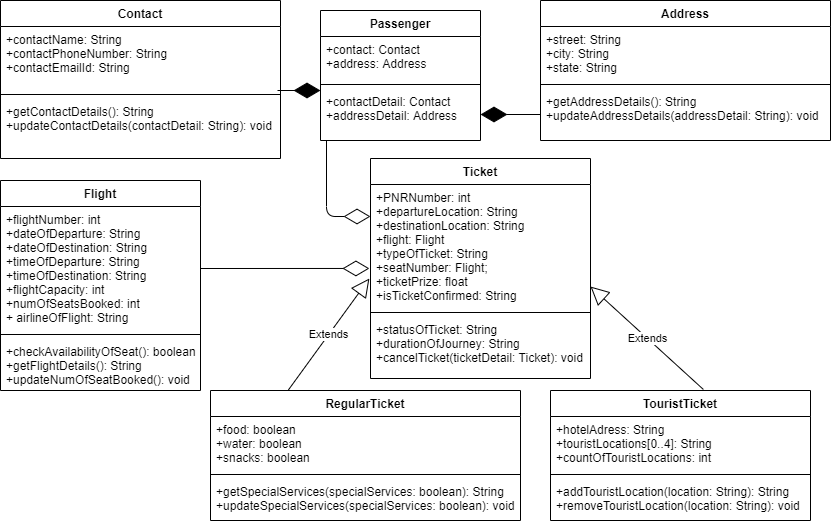
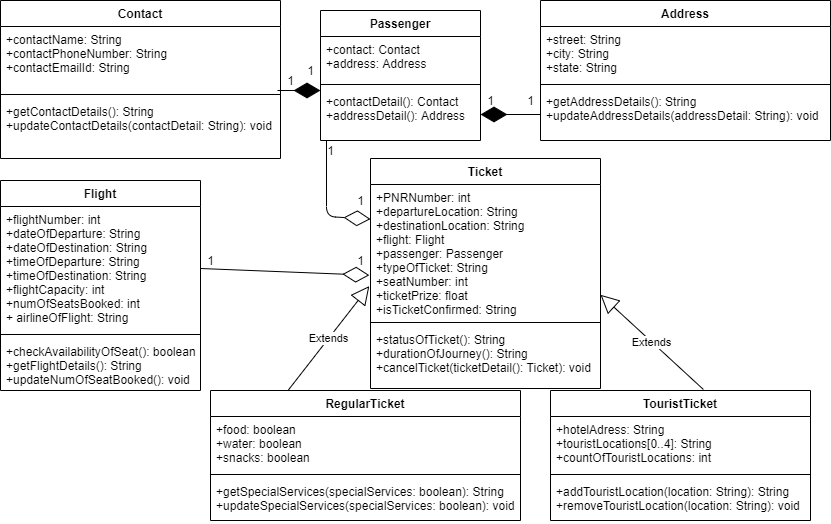
updated UML diagram

diff --git a/Flight reservation project/src/Flight/RegularTicket.java b/Flight reservation project/src/Flight/RegularTicket.java
@@ -7,10 +7,10 @@ public class RegularTicket extends Ticket {
     private boolean snacks;
 
 
-    public RegularTicket(int PNRNumber,String departureLocation, String destinationLocation, float prizeOfTicket,
+    public RegularTicket(String departureLocation, String destinationLocation, float prizeOfTicket,
                          boolean food, boolean water, boolean snacks,
                          Flight flight, Passenger  passenger){
-        super(PNRNumber,destinationLocation,departureLocation,prizeOfTicket,flight,passenger);
+        super(destinationLocation,departureLocation,prizeOfTicket,flight,passenger);
         this.water=water;
         this.food=food;
         this.snacks=snacks;
@@ -18,6 +18,35 @@ public class RegularTicket extends Ticket {
 
 
     }
+    public String bookTicket(){
+
+        if(this.seatNumber>this.flight.getCapacity()){
+            this.isTicketConfirmed=false;
+
+            return "Can't book Seat.";
+        }
+        else{
+            this.isTicketConfirmed=true;
+            this.flight.setNumOfSeatsBooked();
+            System.out.println(this.passenger.getContactDetails());
+            System.out.println(this.passenger.getAddressDetails());
+            System.out.println(this.flight.getFlightDetails());
+            System.out.println(this.ticketDetails());
+            return "Ticket Booked";
+        }
+    }
+
+    public String ticketDetails(){
+        return "Ticket type: Regular Ticket"+ ", Seat Number: "+this.seatNumber+ ", Status of Ticket:" +this.StatusOfTicket(this.isTicketConfirmed);
+    }
+
+    public String StatusOfTicket(){
+        if (this.isTicketConfirmed)
+            return "Confirmed";
+        else
+            return "Cancelled";
+    }
+
 
 
 

diff --git a/Flight reservation project/src/Flight/Ticket.java b/Flight reservation project/src/Flight/Ticket.java
@@ -1,3 +1,4 @@
+
 package Flight;
 
 public abstract class Ticket {
@@ -8,10 +9,11 @@ public abstract class Ticket {
     public boolean isTicketConfirmed;
     public Flight flight;
     public Passenger  passenger;
-    private  int seatNumber=0;
+    public  int seatNumber=0;
 
-    public Ticket(int PNRNumber, String destinationLocation, String departureLocation, float ticketPrize, Flight flight, Passenger passenger){
+    public Ticket( String destinationLocation, String departureLocation, float ticketPrize, Flight flight, Passenger passenger){
         this.PNRNumber=PNRNumber++;
+        this.seatNumber=++seatNumber
         this.departureLocation=departureLocation;
         this.destinationLocation=destinationLocation;
         this.ticketPrize=ticketPrize;
@@ -21,22 +23,8 @@ public abstract class Ticket {
     }
 
 
-    public String bookTicket(){
-        this.seatNumber=++this.seatNumber;
-        if(this.seatNumber>this.flight.getCapacity()){
-            isTicketConfirmed=false;
+    public  abstract bookTicket(){
 
-            return "Can't book Seat.";
-        }
-        else{
-            isTicketConfirmed=true;
-            this.flight.setNumOfSeatsBooked();
-            System.out.println(this.passenger.getContactDetails());
-            System.out.println(this.passenger.getAddressDetails());
-            System.out.println(this.flight.getFlightDetails());
-            System.out.println(this.ticketDetails());
-            return "Ticket Booked";
-        }
     }
 
     public String ticketDetails(){

diff --git a/Flight reservation project/src/Flight/TouristTicket.java b/Flight reservation project/src/Flight/TouristTicket.java
@@ -7,10 +7,10 @@ public class TouristTicket extends Ticket{
 
 
 
-    public TouristTicket( int PNRNumber,String departureLocation, String destinationLocation,
+    public TouristTicket( String departureLocation, String destinationLocation,
                          float prizeOfTicket, String touristHotelAddress,String touristLocations[],
                          Flight flight, Passenger passenger){
-        super(PNRNumber,destinationLocation,departureLocation,prizeOfTicket,flight,passenger);
+        super(destinationLocation,departureLocation,prizeOfTicket,flight,passenger);
 
 
         this.touristHotelAddress=touristHotelAddress;
